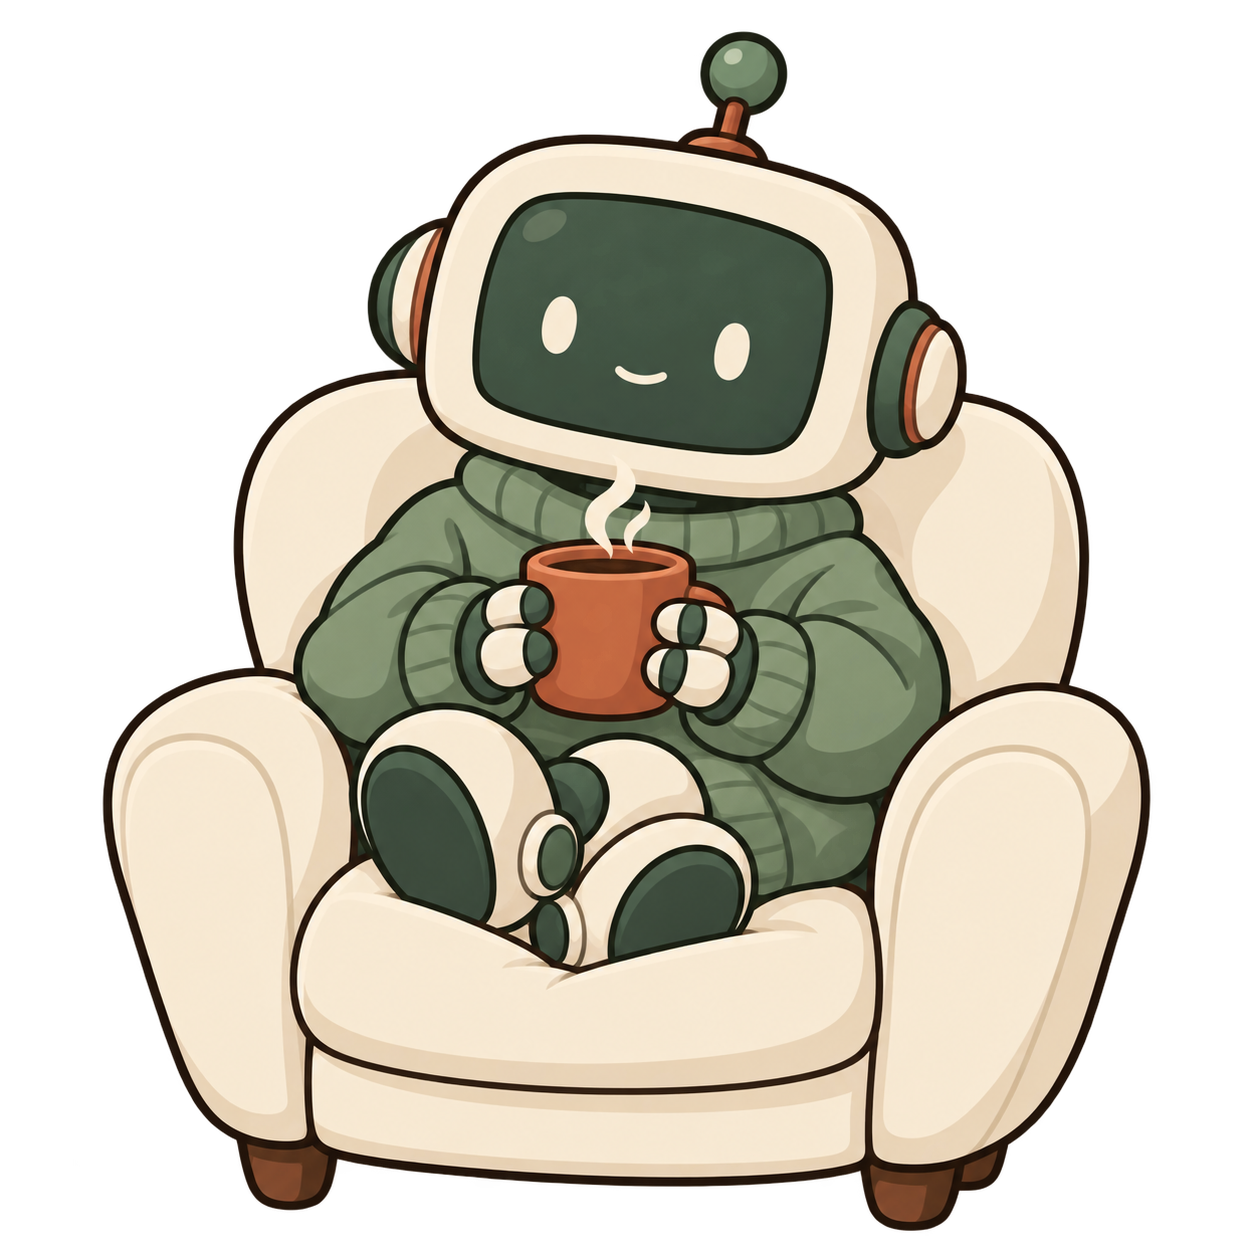
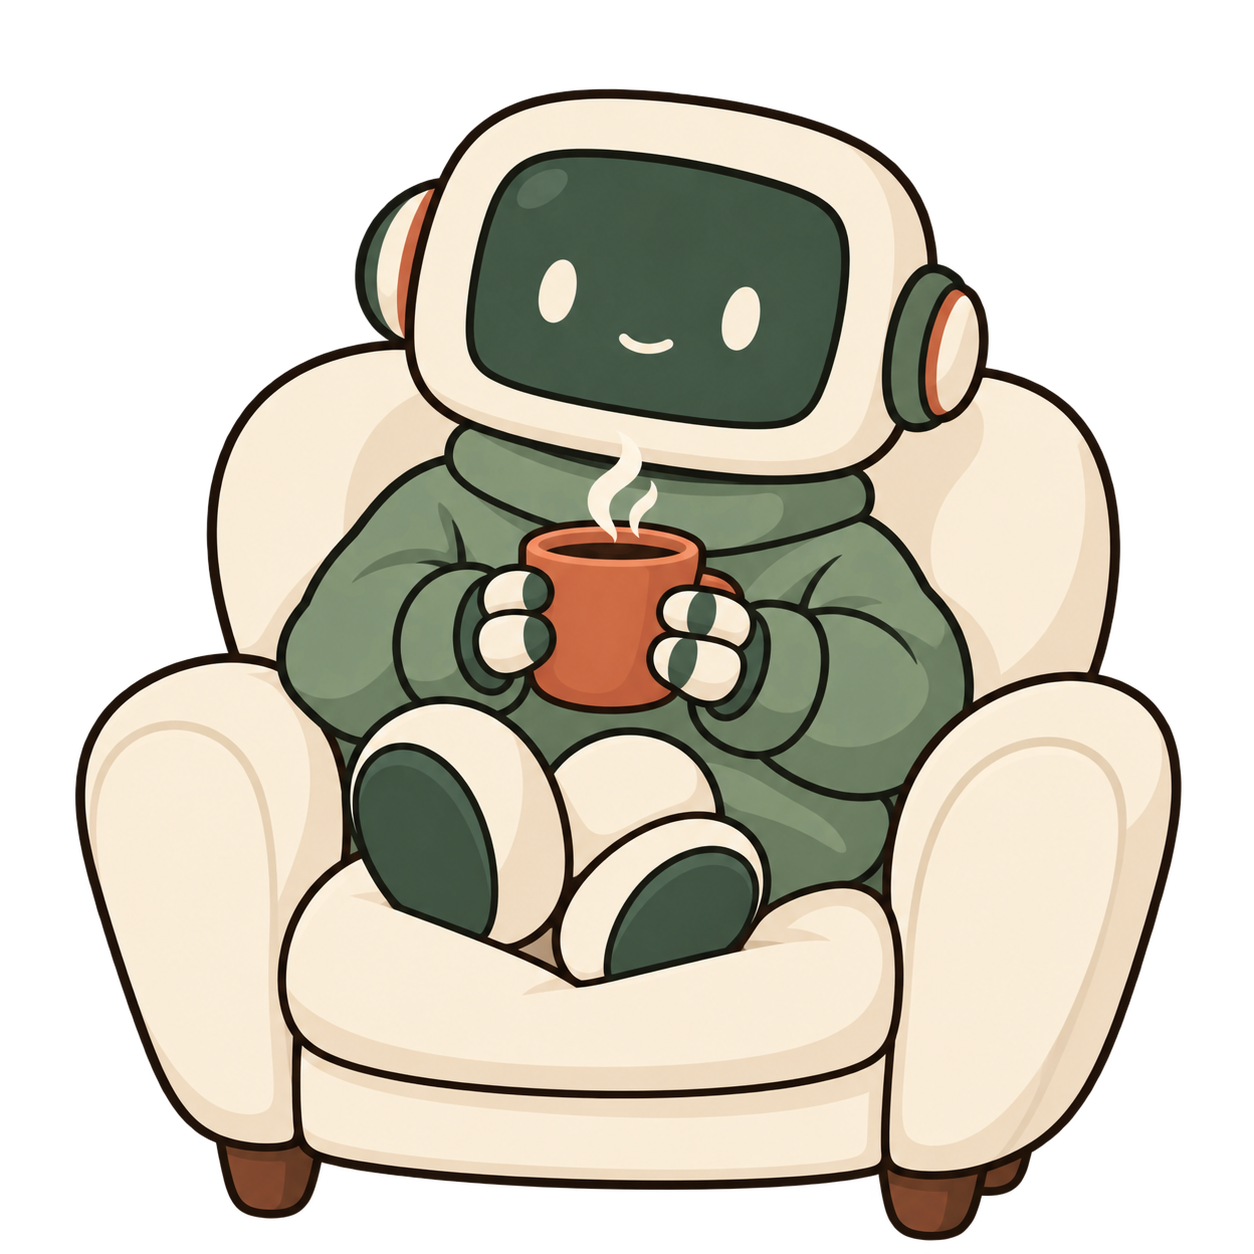
Simplify the robot mascot and remove its antenna

Changed region(s): [[0.0622, 0.0, 0.9641, 0.9952]]

diff --git a/docs/mascot.md b/docs/mascot.md
@@ -1,33 +1,38 @@
 # Comfyware mascot
 
-A comfortable little robot in a sage-green sweater, curled into a cream armchair
-with a terracotta mug of coffee. The chosen version uses clean shapes, restrained
-shading, open oval eyes, and a small smile.
+A comfortable little robot in a plain sage-green sweater, curled into a cream
+armchair with a terracotta mug of coffee. The chosen version has a smooth head
+without an antenna, simple feet and joints, open oval eyes, and a small smile.
 
 - Current asset: `site/assets/comfy-robot.png` (1254 × 1254, transparent RGBA PNG).
 - Edited with the built-in `image_gen` tool on 2026-09-28.
-- Edit target: `design/mascot-options/robot.png`, the selected robot concept.
+- Edit target: `site/assets/comfy-robot.png` at commit
+  `ef931f9c27acf8bcd50a2d1851c1365e3e4a8f86`. The prior version and edit prompt
+  remain in Git history.
 - The original concept took inspiration from the simple face and outline of
   Imvault's keeper and the green/cream colors and gentle shading of Witmoot's
   Moot Knight. Its original prompt is in the
   [concept notes](../design/mascot-options/README.md).
-- This edit reduces texture and mechanical details and changes the expression
-  to address the requested simpler, less smug look.
+- This pass removes the antenna and reduces sweater ribbing, mechanical joints,
+  and small shading details while retaining the selected expression and pose.
 - The generated PNG is copied unchanged, preserving its alpha channel. No CLI
   fallback or image post-processing was used.
-- Used in the homepage introduction and homepage sharing metadata. Superseded
+- Used in the homepage introduction and homepage sharing metadata. Earlier
   concepts are kept outside the public site under `design/mascot-options/`.
 
 ## Final edit prompt
 
 ```text
-Use case: style-transfer
-Asset type: refinement of the selected Comfyware robot mascot for a small software website.
-Input image: the attached robot.png is the EDIT TARGET. Preserve this robot's identity and the cozy concept: cream rounded screen head, little antenna, green sweater, coffee mug, curled-up feet, cream armchair, sage/cream/terracotta palette, full-body isolated composition and transparent background.
-Primary request: make this robot a bit less visually complex and less smug-looking.
-Expression change: replace the large upturned closed-eye arches, cheek/blush marks and jaunty smile with two small, simple OPEN oval eyes and a very small shallow, centered smile. No eyebrows or blush strokes. Keep the face modest, calm, friendly and gently attentive. The head should be nearly upright with just a slight relaxed lean, not cocked playfully. No smirk, broad grin or raised eyebrows. It should feel quietly comfortable and approachable.
-Simplification: remove the stippled and knitted surface texture; use a plain soft sage sweater with just a few broad folds and minimal ribbing at the collar/cuffs. Reduce the number of seams, finger segments and nested mechanical rings. Simplify the feet into two rounded robot slippers with one simple sole shape each. Simplify the chair into large soft cushions with only essential contour lines. Use clean, mostly flat color fills with one restrained shadow tone per material and very few highlights. Keep clear dark outlines. Keep enough softness and gentle shading to belong with the original friendly Imvault and Witmoot mascot illustrations, but closer to the visual simplicity of Imvault's little keeper.
-Preserve: the cozy armchair, both hands holding one terracotta mug of coffee, small steam curl, warm green-and-cream palette, recognizable robot anatomy, transparent negative space, full chair and feet inside the canvas.
-Composition: one complete mascot, centered square canvas with comfortable transparent margins, readable at 250–350px display width.
-Constraints: no text, watermark, extra props, new characters, background scene, opaque background or baked-in checkerboard. Do not turn it into an animal, human or a different mascot. Output one revised image with genuine alpha transparency.
+Use case: precise-object-edit
+Asset type: one more simplification pass on the existing Comfyware robot mascot.
+Input image: the attached comfy-robot.png is the EDIT TARGET. This is the chosen character; preserve its identity, open oval eyes, tiny centered smile, cozy seated pose, coffee cup, sweater, cream armchair, palette and transparent background.
+Primary request: make it a bit simpler. In particular, remove the antenna entirely.
+Required changes:
+1. Remove the complete antenna, including the green ball, stalk, and mounting base. The top of the robot's head must be a clean, uninterrupted rounded cream contour, with transparent space above it. No replacement tuft, button, wire, knob, hat, or other head ornament.
+2. Simplify the remaining small details: make each side of the head one plain rounded ear/joint disc with minimal outlining; remove the circular ankle hardware and extra joint rings, leaving two smooth rounded robot feet with simple green soles. Keep hands clear and simple as they hold the mug.
+3. Simplify the sweater to a plain sage garment with just the collar, cuff outlines, and a few broad folds. Remove most fine ribbing and unnecessary internal lines. Keep soft rounded sleeves and the cozy feeling.
+4. Reduce small highlights and secondary shading shapes on the chair and robot. Use large clean cream/sage/terracotta color areas, restrained gentle shading, and confident dark outlines. Retain enough depth to match the same illustration rather than turning it into a flat pictogram.
+Keep unchanged: the calm open-eyed expression and small smile, no eyebrows or blush; the overall proportions, comfortably curled-up posture, both hands cradling one terracotta coffee mug, soft cream armchair, warm friendly mood and full character visible. Keep the steam simple.
+Composition: same single isolated mascot, centered square canvas with comfortable transparent margins. Make the visual details readable when displayed at 250 pixels wide.
+Background: genuine alpha transparency, no colored background, ground plane, checkerboard, text, watermark, extra objects or characters. Return one revised mascot image.
 ```
